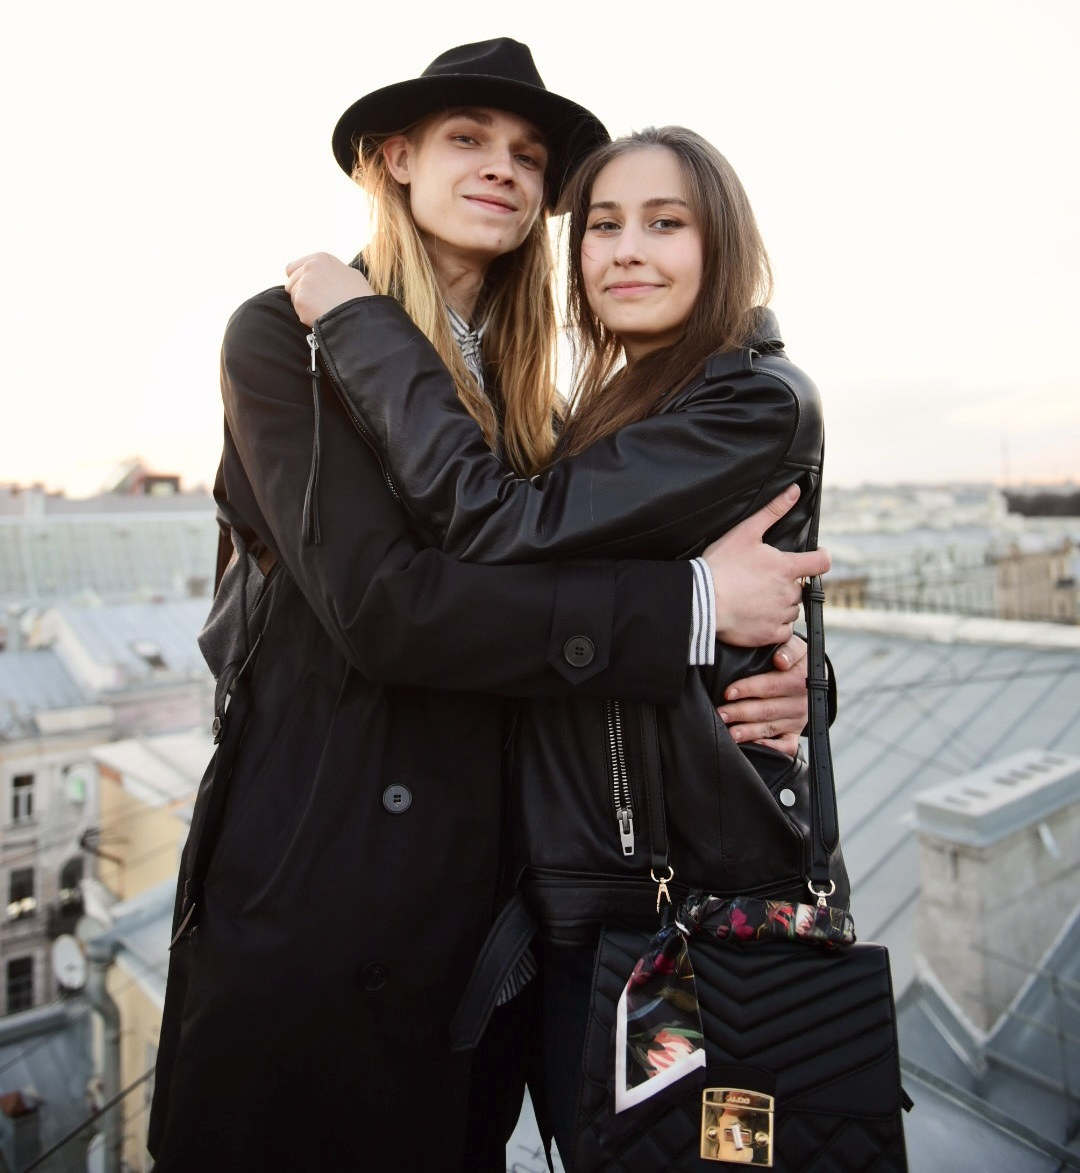
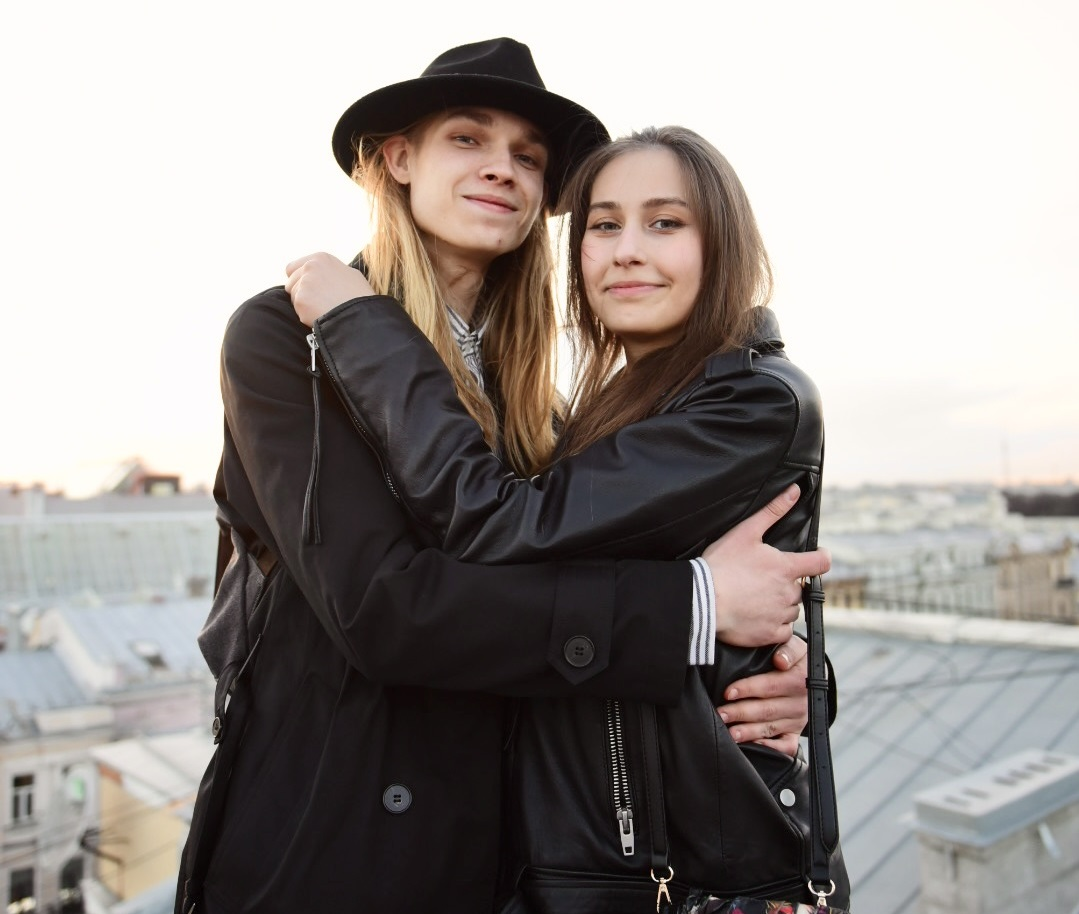
svg data

diff --git a/styles.css b/styles.css
@@ -504,7 +504,11 @@ footer p {
     }
     
     .hello-svg {
-        width: 80%;
+        width: 60%;
+    }
+    
+    .date-svg {
+        width: 50%;
     }
 }
 
@@ -540,7 +544,12 @@ footer p {
     }
     
     .hello-svg {
-        width: 90%;
+        width: 70%;
+        margin-bottom: 15px;
+    }
+    
+    .date-svg {
+        width: 60%;
     }
     
     header {
@@ -663,6 +672,18 @@ footer p {
     object-fit: cover;
 }
 
+/* Добавляем градиент к прозрачному в нижней части фото */
+.welcome-image::after {
+    content: '';
+    position: absolute;
+    bottom: 0;
+    left: 0;
+    width: 100%;
+    height: 40%;
+    background: linear-gradient(to bottom, rgba(255,255,255,0), var(--color-light-bg));
+    pointer-events: none;
+}
+
 .welcome-svg {
     position: absolute;
     top: 0;
@@ -670,15 +691,27 @@ footer p {
     width: 100%;
     height: 100%;
     display: flex;
+    flex-direction: column;
     align-items: center;
     justify-content: center;
+    padding-right: 0;
+    z-index: 2;
 }
 
 .hello-svg {
-    width: 70%;
-    max-width: 400px;
+    width: 50%;
+    max-width: 300px;
     height: auto;
     animation: fadeInAndFloat 2s ease-in-out forwards;
+    margin-bottom: 20px;
+}
+
+.date-svg {
+    width: 60%;
+    max-width: 450px;
+    height: auto;
+    animation: fadeInAndFloat 2s ease-in-out 0.5s forwards;
+    opacity: 0;
 }
 
 @keyframes fadeInAndFloat {

diff --git a/index.html b/index.html
@@ -14,6 +14,7 @@
             <img src="we.jpeg" alt="Приветственное фото" class="welcome-photo">
             <div class="welcome-svg">
                 <img src="hello.svg" alt="Приветствие" class="hello-svg">
+                <img src="date.svg" alt="Дата свадьбы" class="date-svg">
             </div>
         </div>
         
